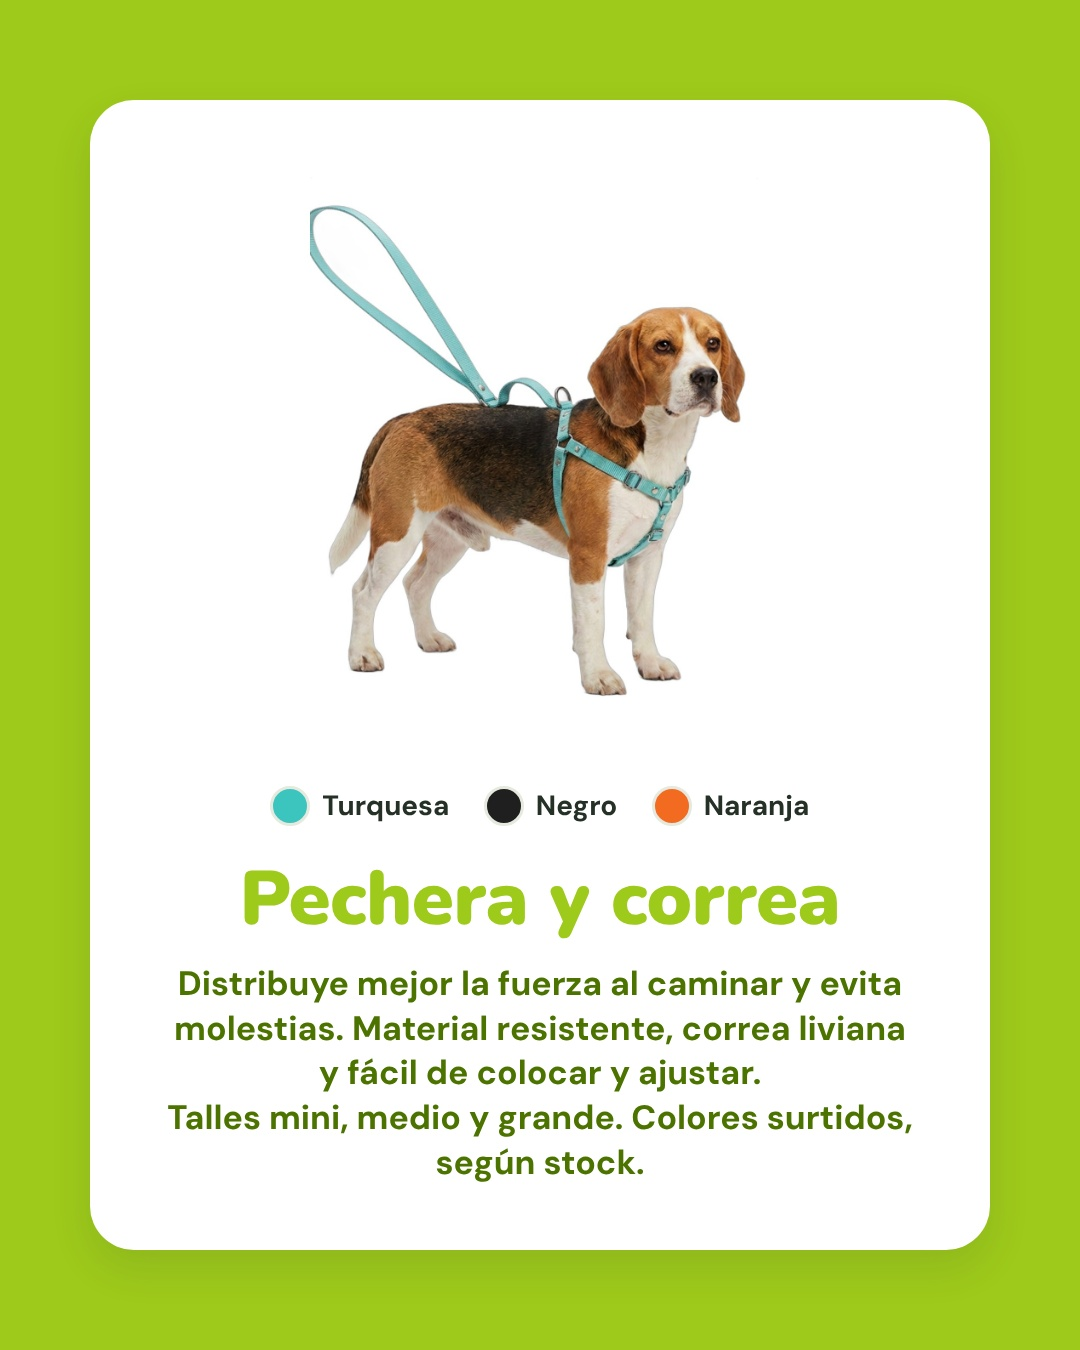
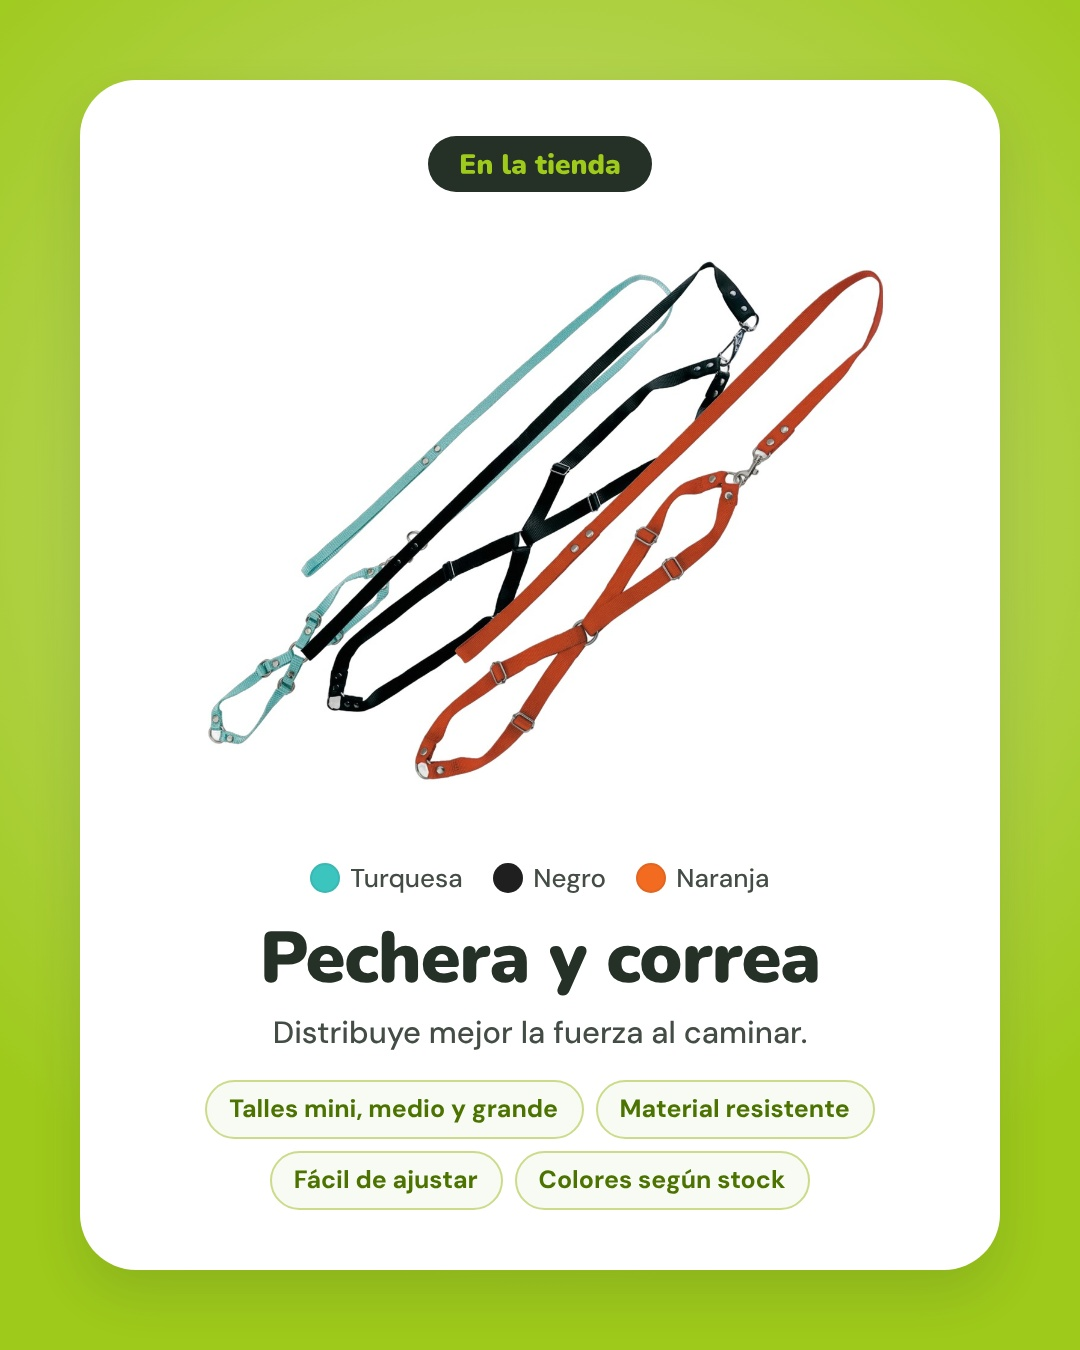
Ficha de producto más linda y portada sin texto tapado
- Ficha: degradé verde suave, tarjeta amplia, producto solo con sus tres
  colores, nombre oscuro, una línea y datos en pastillas.
- Portada: título editorial arriba, sin nada que lo cruce.

Claude-Session: https://claude.ai/code/session_01UFgb9cPkwjsoNhDLqTBRZN

diff --git a/studio/src/plantillas.css b/studio/src/plantillas.css
@@ -232,15 +232,19 @@
 }
 
 /* Producto · ficha con info (estilo 18): segunda slide del carrusel de producto.
-   Tarjeta blanca sobre verde con la foto del producto, colores, nombre y descripción. */
+   Verde suave en degradé, tarjeta blanca amplia, el producto solo y grande, poco texto. */
+.slide.ficha { background: radial-gradient(circle at 50% 38%, var(--verde-claro) 0%, var(--verde) 78%); }
 .slide .fi-tarjeta {
-  position: absolute; left: 90px; right: 90px; top: 100px; bottom: 100px; border-radius: 44px; background: #fff;
-  display: flex; flex-direction: column; align-items: center; padding: 60px 70px 64px; box-shadow: 0 18px 40px rgba(37, 48, 39, 0.12);
+  position: absolute; left: 80px; right: 80px; top: 80px; bottom: 80px; border-radius: 56px; background: #fff;
+  display: flex; flex-direction: column; align-items: center; padding: 56px 64px 60px; box-shadow: 0 24px 50px rgba(37, 48, 39, 0.14);
 }
+.slide .fi-etiqueta { height: 56px; margin-bottom: 10px; }
 .slide .fi-foto { flex: 1; width: 100%; min-height: 0; }
 .slide .fi-foto img { width: 100%; height: 100%; object-fit: contain; mix-blend-mode: multiply; }
-.slide .fi-colores { display: flex; gap: 34px; margin-top: 18px; font-size: 28px; font-weight: 700; color: var(--texto); }
-.slide .fi-color { display: flex; align-items: center; gap: 12px; }
-.slide .fi-punto { width: 40px; height: 40px; border-radius: 50%; border: 3px solid var(--borde); }
-.slide .fi-t { margin-top: 34px; color: var(--verde); text-align: center; line-height: 1.05; }
-.slide .fi-x { margin-top: 22px; font-size: 34px; line-height: 1.32; font-weight: 700; color: #4c7300; text-align: center; white-space: pre-line; }
+.slide .fi-colores { display: flex; gap: 30px; margin-top: 22px; font-size: 26px; font-weight: 500; color: #444d45; }
+.slide .fi-color { display: flex; align-items: center; gap: 10px; }
+.slide .fi-punto { width: 30px; height: 30px; border-radius: 50%; box-shadow: inset 0 0 0 2px rgba(37, 48, 39, 0.08); }
+.slide .fi-t { margin-top: 26px; color: var(--texto); text-align: center; line-height: 1.05; letter-spacing: -1px; }
+.slide .fi-x { margin-top: 14px; max-width: 780px; font-size: 31px; line-height: 1.4; font-weight: 500; color: #444d45; text-align: center; }
+.slide .fi-datos { display: flex; flex-wrap: wrap; justify-content: center; gap: 12px; margin-top: 26px; max-width: 820px; }
+.slide .fi-dato { padding: 10px 22px 12px; border-radius: 999px; background: var(--superficie); border: 2px solid var(--verde-claro); color: #4c7300; font-size: 25px; font-weight: 700; }

diff --git a/studio/functions/api/generate.ts b/studio/functions/api/generate.ts
@@ -45,7 +45,7 @@ ESTRUCTURA DEL CARRUSEL
   - "texto": igual que "dato" pero sin foto, para ideas que no necesitan imagen.
   - "producto": un producto de la tienda sobre verde o blanco. Úsalo solo si el usuario nombra un producto concreto. La foto la sube el usuario, así que "busqueda_foto" va vacío.
   - "producto-claro": la foto de catálogo del producto, grande, sobre fondo claro (fondo "blanco"). "titulo" = nombre del producto tal como lo escribió el usuario (máx. 40 caracteres); "texto" = una bajada concreta de 1 oración (máx. 90 caracteres) o vacío; "numero" = 0 (sin precio). "busqueda_foto" vacío.
-- Carrusel de producto (el preferido de la marca): slide 1 "portada-foto" o un editorial con una foto linda del producto en uso, y slide 2 "producto-ficha": la ficha con el nombre en "titulo", la descripción en "texto" (2 a 4 oraciones, máx. 260 caracteres, solo con datos que dio el usuario) y los colores en "colores" separados por coma («Negro, Turquesa») o "" si no los dio. Sin cierre si son 2 slides.
+- Carrusel de producto (el preferido de la marca): slide 1 "portada-foto" o un editorial con una foto linda del producto en uso, y slide 2 "producto-ficha": la ficha con el nombre en "titulo", en "texto" un primer renglón con una descripción corta (máx. 90 caracteres) y después, separados con \n, 2 a 4 datos clave cortos que se ven como pastillas (ej. «Talles mini, medio y grande», máx. 30 caracteres cada uno), solo con datos que dio el usuario y los colores en "colores" separados por coma («Negro, Turquesa») o "" si no los dio. Sin cierre si son 2 slides.
 - Avisos (envíos, pedido programado, horarios, cambios en la tienda): una sola slide "aviso", sin foto, con fondo "blanco" o "verde". "titulo" corto y directo (máx. 60 caracteres); encerrá entre *asteriscos* las 1 a 3 palabras clave para destacarlas en verde (ej. «Envío *gratis* a todo el país»). "texto" con el detalle (máx. 120 caracteres), usando los textos fijos de arriba cuando corresponda. Si el usuario pide 1 slide, el post es solo esa slide, sin cierre.
 - En carruseles de 3 slides o más, la última slide es "cierre": una pregunta o invitación a comentar en "titulo" (máx. 30 caracteres) y una frase corta en "texto". Nunca pongas el WhatsApp, teléfonos ni «pedilo» en las slides: el feed es estético; esos datos van solo en el caption.
 - Fondos de las slides intermedias y del cierre: alternás "blanco" y "verde", empezando por "blanco" después de la portada. El cierre va siempre en "verde".

diff --git a/studio/src/SlideView.tsx b/studio/src/SlideView.tsx
@@ -385,9 +385,12 @@ export const SlideView = forwardRef<HTMLDivElement, Props>(function SlideView({ 
 
   if (tipo === "producto-ficha") {
     const colores = (slide.colores ?? "").split(",").map((c) => c.trim()).filter(Boolean);
+    // Primer renglón del texto: descripción corta. Los demás: datos clave en pastillas.
+    const [descripcion, ...datos] = slide.texto.split("\n").map((r) => r.trim()).filter(Boolean);
     return (
-      <div ref={ref} className="slide ficha bg-verde">
+      <div ref={ref} className="slide ficha">
         <div className="fi-tarjeta">
+          <Etiqueta slide={slide} clase="fi-etiqueta" />
           <div className="fi-foto">
             {slide.foto ? (
               <img src={slide.foto.src} alt="" style={{ transform: `scale(${slide.fotoZoom})`, objectPosition: `${slide.fotoX}% ${slide.fotoY}%` }} />
@@ -405,8 +408,13 @@ export const SlideView = forwardRef<HTMLDivElement, Props>(function SlideView({ 
               ))}
             </div>
           )}
-          <div className="h fi-t" style={{ fontSize: tam(slide.titulo, 76, 24) }}>{slide.titulo}</div>
-          {slide.texto && <div className="fi-x">{slide.texto}</div>}
+          <div className="h fi-t" style={{ fontSize: tam(slide.titulo, 72, 22) }}>{slide.titulo}</div>
+          {descripcion && <div className="fi-x">{descripcion}</div>}
+          {datos.length > 0 && (
+            <div className="fi-datos">
+              {datos.map((d) => <div key={d} className="fi-dato">{d}</div>)}
+            </div>
+          )}
         </div>
         {conDeslizar && <img className="deslizar" src="/elementos/deslizar-blanco.svg" alt="" />}
       </div>

diff --git a/studio/src/Inspector.tsx b/studio/src/Inspector.tsx
@@ -17,7 +17,7 @@ const ETIQUETA_TEXTO: Partial<Record<TipoSlide, string>> = {
   "portada-titulo-verde": "Línea de abajo (opcional)",
   producto: "Bajada",
   "producto-claro": "Bajada (opcional)",
-  "producto-ficha": "Descripción (datos reales del producto, sin precio)",
+  "producto-ficha": "1.er renglón: descripción corta. Cada renglón siguiente es un dato en pastilla (talles, material…). Sin precio.",
   aviso: "Texto (opcional)",
   "foto-panel": "Bajada (se ve subrayada, como un enlace)",
   "texto-editorial": "Línea de abajo (opcional)",

diff --git a/lineamientos/estilos-de-post.md b/lineamientos/estilos-de-post.md
@@ -231,11 +231,15 @@ Inspirados en el feed de Petz (`lineamientos/referencias/`), pero con la marca d
 ### Estilo 18 · Ficha de producto (segunda slide)
 ![](estilos/18-ficha-de-producto.jpg)
 
-- **Qué es:** la slide con la información, después de una portada linda. Fondo verde, tarjeta blanca redondeada (radio 44) y adentro: la foto del producto sobre blanco, los colores disponibles con su muestra, el nombre y la descripción.
-- **Nombre:** Nunito 900 verde Ser Animal, centrado.
-- **Descripción:** DM Sans 700 verde hoja `#4C7300`, centrada, de 2 a 4 oraciones. Solo datos de la ficha de la tienda online: material, talles, para quién es. Nunca precio.
-- **Colores:** muestras redondas con el nombre. Si en la web dice «colores surtidos según stock», se aclara en la descripción.
-- **Foto:** la de la web, recortada y puesta sobre blanco para que no se vea un fondo gris.
+- **Qué es:** la slide con la información, después de una portada linda. Tiene que verse como un catálogo lindo, no como un folleto: mucho aire y poco texto.
+- **Fondo:** degradé suave de verde claro `#CADC8A` en el centro a verde `#9ECA1B` en los bordes. Tarjeta blanca amplia (a 80 px de los bordes, radio 56) con sombra suave.
+- **Producto:** solo, sin perro, grande y recortado sobre blanco. Si viene en varios colores, los colores juntos y superpuestos, como una familia.
+- **Arriba:** la etiqueta de serie («En la tienda» o «Novedad»).
+- **Colores:** muestras chicas con el nombre, en DM Sans 500.
+- **Nombre:** Nunito 900 `#253027`, centrado.
+- **Descripción:** una sola línea corta en DM Sans 500 gris oscuro.
+- **Datos clave:** de 2 a 4 pastillas chicas (talles, material, «colores según stock»), en verde hoja sobre superficie con borde verde claro.
+- **Siempre:** datos de la ficha de la tienda online, nunca precio.
 
 ---
 
@@ -248,7 +252,7 @@ Inspirados en el feed de Petz (`lineamientos/referencias/`), pero con la marca d
 Los avisos (estilo 8) van como post de una sola imagen.
 
 **Carrusel de producto (el preferido de la marca):** 2 slides.
-1. **Portada linda:** foto real del producto en uso (un perro con la pechera puesta, una mano con el juguete), sola o con título con profundidad (estilo 1) y una línea abajo («DISPONIBLE EN 3 TALLES»).
+1. **Portada linda:** foto real del producto en uso (un perro con la pechera puesta, una mano con el juguete), sola, con título editorial (estilo 14) o con título con profundidad (estilo 1) si el sujeto lo permite sin tapar letras, y una línea abajo («Disponible en 3 talles»).
 2. **Ficha de producto (estilo 18):** foto sobre blanco, colores, nombre y descripción.
 
 **Qué productos mostrar:** siempre productos lindos de la tienda online, que se vean bien en foto (pecheras, correas, camas, juguetes, comederos de diseño). Nada de productos feos o poco vistosos. Los datos se sacan de la ficha de seranimal.com.uy. Pensar ideas creativas para la portada: la foto tiene que dar ganas de tenerlo.

diff --git a/posts/2026-11-pechera-y-correa/fuente/README.md b/posts/2026-11-pechera-y-correa/fuente/README.md
@@ -1,10 +1,10 @@
 # Fuente
 
-Se arma con Ser Animal Studio (plantillas «Portada · título con profundidad» y «Producto · ficha con info»).
+Se arma con Ser Animal Studio (plantillas «Foto · título editorial arriba» y «Producto · ficha con info»).
 
 - `proyecto.cjs`: el proyecto del Studio (textos, encuadre y fotos).
 - `assets/husky.jpg`: foto de la portada (de seranimal.com.uy, producto «Conjunto Correa + Pechera para Perro»).
-- `assets/husky-sujeto.png`: recorte del perro, mismo tamaño que la foto, para que el título pase por detrás. Hecho con rembg (modelo isnet-general-use).
-- `assets/beagle-blanco.jpg`: foto de la web recortada y puesta sobre blanco para la ficha.
+- `assets/husky-sujeto.png`: recorte del perro (rembg, modelo isnet-general-use), por si se quiere la versión con profundidad.
+- `assets/conj-familia.jpg`: los tres colores del producto (fotos de la web recortadas con rembg y superpuestas) sobre blanco, para la ficha.
 
 Para volver a exportar: cargar el proyecto en el Studio (o con el script de render de la guía) y descargar el ZIP.

diff --git a/posts/2026-11-pechera-y-correa/texto.md b/posts/2026-11-pechera-y-correa/texto.md
@@ -1,8 +1,8 @@
 # Pechera y correa
 
 **Formato:** carrusel de 2 slides, 1080×1350.
-- Slide 1: portada con título con profundidad (la correa del husky cruza «Pechera y correa») y «DISPONIBLE EN 3 TALLES».
-- Slide 2: ficha del producto con colores, nombre y descripción.
+- Slide 1: portada con título editorial arriba (estilo 14): «Pechera y correa», sin nada que lo tape, y «Disponible en 3 talles».
+- Slide 2: ficha del producto (estilo 18): los tres colores juntos, nombre, una línea y los datos en pastillas.
 
 **Producto:** Conjunto Correa + Pechera para Perro (seranimal.com.uy). Datos tomados de la web: pechera + correa de seda, talles N1 Mini, N3 Medio y N4 Grande, colores surtidos según stock. Sin precio.
 
